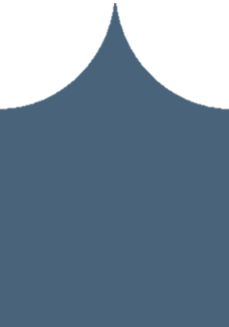
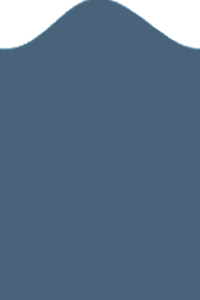
need to fix blank region

Changed region(s): [[0.0, 0.0, 1.0, 0.36]]

diff --git a/src/components/mustknow.js b/src/components/mustknow.js
@@ -1,7 +1,8 @@
 import React from 'react'
+import { relative } from 'path';
 
 const MustKnow = () => (
-    <div>
+    <div style = {{position: 'relative', top : '-100px'}}>
         <h3> 營隊資訊 </h3>
         <ul>
             <li>營隊時間：2018/7/27（五）～ 2018/8/1（三）共六天五夜</li>
@@ -9,6 +10,27 @@ const MustKnow = () => (
             <li>住宿資訊：台大男一舍、大一女</li>
             <li>營隊費用：新台幣 6600 元整。（男女團報優惠則是每人6300元整）註：團報優惠限三個人以上團體報名，至多五人且至少各一名男生和女生 </li>
         </ul>
+        <h3> 需填寫文件 </h3>
+        <ol>
+            <li>報名資料表.pdf（<a href = 'https://goo.gl/HsDVqn'>下載連結</a>）</li>
+            <li>家長同意書.pdf（<a href = 'https://goo.gl/qAeTe6'>下載連結</a>）</li>
+            <li> 學員報名表-2019臺大電機營《EvolvE》Google 線上表單（建議用電腦填寫！！線上填寫連結：https://goo.gl/cSdT8d) </li>
+        </ol>
+        <h3> 報名流程 </h3>
+        <ol>
+            <li>下載並列印「報名資料表.pdf」。
+            手寫填妥後掃描或拍照並將檔名格式改為「報名資料表_學員姓名.pdf」
+            （請將jpg、png圖檔轉存成pdf檔）頁數不限，請盡情發揮。</li>
+            <li>下載並列印「家長同意書.pdf」。
+            手寫填妥後掃描或拍照並將檔名格式改為「家長同意書_學員姓名.pdf」
+            （請將jpg、png圖檔轉存成pdf檔）</li>
+            <li>填寫「學員報名表-2019臺大電機營《EvolvE》」Google 線上表單
+            （建議用電腦填寫！！線上填寫連結：https://goo.gl/cSdT8d)</li>
+            <li>下個部分及Google線上表單最後均會指示您如何上傳「報名資料表」與「家長同意書」(上傳一次即可)</li>
+            <li>資料上傳完、表單填完後，報名就完成囉！</li>
+            <li>若有任何疑問(如：誤填、更新資料、需重新上傳...等)請直接私訊粉專（https://www.facebook.com/eecamp2019/ ）。</li>
+        </ol>
+
     </div>
 )
 

diff --git a/src/components/wave.css b/src/components/wave.css
@@ -1,25 +1,49 @@
 .wave-header{
     background-image: url('../images/tile1.png');
-    background-size: 10% 100%;
+    background-size: 12.5% 100%;
     width: 100%;
     height: 300px;
-    line-height: 300px;
+    padding-top: 80px;
     text-align: center;
     font-size: 40px;
+    cursor: pointer;
+    transition: all 1s;
 }
+
+.wave-header:hover{
+    transform: translateY(-10px) scaleY(1.1);
+}
+
 .wave-content{
     width: 100%;
-    padding-bottom: 100px;
-    padding-left: 100px;
-    padding-right: 100px;
+    padding-bottom: 5rem;
+    padding-left: 5rem;
+    padding-right: 5rem;
     /* height: 600px; */
 }
 
-@media (max-width: 767px) {
+@media (max-width: 769px) {
     .wave-header{
-        background-size: 30% 100%;
-        height: 200px;
-        line-height: 200px;
+        background-size: 20% 100%;
         font-size: 30px;
+    }
+    .wave-content{
+        padding-bottom: 3rem;
+        padding-left: 3rem;
+        padding-right: 3rem;
+    }
+}
+
+@media (max-width: 480px) {
+    .wave-header{
+        background-size: 33.333% 100%;
+        height: 225px;
+        padding-top: 40px;
+        font-size: 30px;
+    }
+    .wave-content{
+        padding-bottom: 1rem;
+        padding-left: 1rem;
+        padding-right: 1rem;
     }
 }

diff --git a/src/components/content.js b/src/components/content.js
@@ -8,7 +8,7 @@ import MustKnow from '../components/mustknow'
 import Apply from '../components/apply'
 import Gallery from '../components/gallery'
 
-const up = 120
+const offset = 120
 
 const Content = props => {
     return (
@@ -16,12 +16,12 @@ const Content = props => {
             <Wave url = {tile1} bgcolor = '#b9e5fb' headerColor = '#496379' title = '報名須知'>
                 <MustKnow />
             </Wave>
-            <Wave url = {tile2} bgcolor = '#75c3e2' headerColor = '#ffffff' title = '開始報名' bottom = {up}>
+            <Wave url = {tile2} bgcolor = '#75c3e2' headerColor = '#ffffff' title = '開始報名' bottom = {offset}>
                 <Apply />
             </Wave>
-            <Wave url = {tile3} bgcolor = '#49647a' headerColor = '#ffffff' title = '活動花絮' bottom = {up * 2}>
+            <Wave url = {tile3} bgcolor = '#49647a' headerColor = '#ffffff' title = '活動花絮' bottom = {offset * 2}>
             </Wave>
-            <Wave url = {tile4} bgcolor = '#2c4256' headerColor = '#d3ffff' bottom = {up * 3} />
+            <Wave url = {tile4} bgcolor = '#2c4256' headerColor = '#d3ffff' bottom = {offset * 3} />
         </div>
     )
 }

diff --git a/src/components/wave.js b/src/components/wave.js
@@ -17,8 +17,8 @@ class Wave extends React.Component {
     }
     render() {
         return (
-            <div style = {{position: 'relative', bottom: this.props.bottom}}>
-                <div className = 'wave-header' style = {{backgroundImage: `url(${this.props.url})`, color: this.props.headerColor}} onClick = {this.handleToggle} >
+            <div className = 'wave-container' style = {{position: 'relative', bottom: this.props.bottom}}>
+                <div className = 'wave-header' style = {{backgroundImage: `url(${this.props.url})`, color: this.props.headerColor}} onClick = {this.handleToggle}>
                     {this.props.title}
                 </div>
                 {

diff --git a/src/utils/global.css b/src/utils/global.css
@@ -1,11 +1,30 @@
-h3 {
-    margin: 0;
+html{
+    font-size: 24px;
 }
 body{
     font-family: 'Microsoft JhengHei';
-    font-size: 16px;
     line-height: 1.8;
 }
 div{
     box-sizing: border-box;
+}
+h3 {
+    margin: 0;
+    font-size: 1rem;
+}
+li {
+    font-size: 1rem;
+}
+
+
+@media (max-width: 769px) {
+    html{
+        font-size: 20px;
+    }
+}
+
+@media (max-width: 480px) {
+    html{
+        font-size: 16px;
+    }
 }

diff --git a/src/components/apply.js b/src/components/apply.js
@@ -1,7 +1,7 @@
 import React from 'react'
 
 const Apply = () => (
-    <div>
+    <div style = {{position: 'relative', top : '-100px'}}>
         <h3> 報名流程 </h3>
         <ul>
             <li>下載並列印「報名資料表.pdf」。
